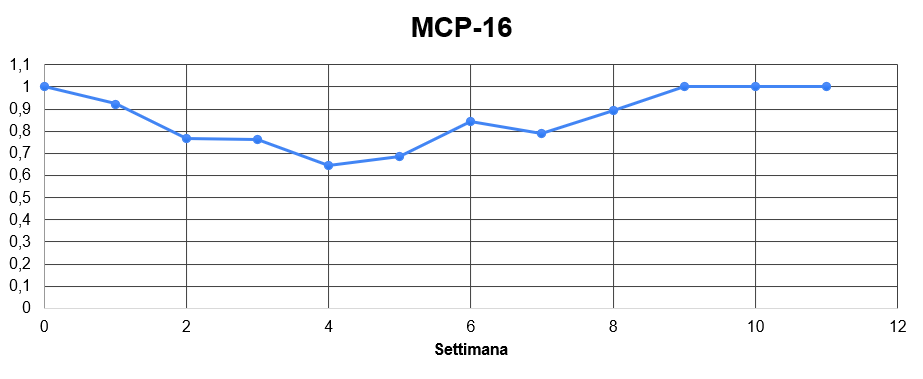
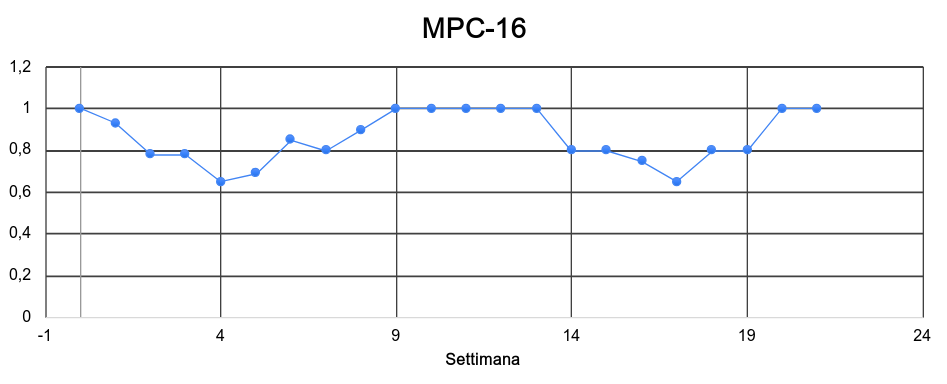
MS

diff --git a/3_PB/DocumentiEsterni/PianoDiQualifica.tex b/3_PB/DocumentiEsterni/PianoDiQualifica.tex
@@ -1873,13 +1873,13 @@ Per gli sprint successivi sono stati registrati rischi che però erano stati pre
 
 
 \subsection{MPC-19: Metriche soddisfatte}
-DA FARE
 \begin{figure}[H]
     \includegraphics[width=\textwidth]{../../assets/pdq/ms.png}
     \caption{MPC-19: Metriche soddisfatte}
     \label{ms}
 \end{figure}
-Si nota un calo iniziale, corrispondentemente al periodo di instabilità generale del progetto. Successivamente, grazie a misure correttive e ai controlli automatici di alcune metriche si è raggiunta la stabilità. Questo anche grazie alla crescente attenzione rivolta al soddisfacimento delle metriche di qualità.
+Si nota un calo iniziale, corrispondentemente al periodo di instabilità generale del progetto. Successivamente, grazie a misure correttive e ai controlli automatici di alcune metriche si è raggiunta la stabilità. Questo anche grazie alla crescente attenzione rivolta al soddisfacimento delle metriche di qualità.\\
+Similmente, si osserva una diminuizione in corrispondenza dell'inserimento di nuove metriche, che però è stata rapidamente recuperata, come nel primo periodo.\\
 
 
 \vfill
